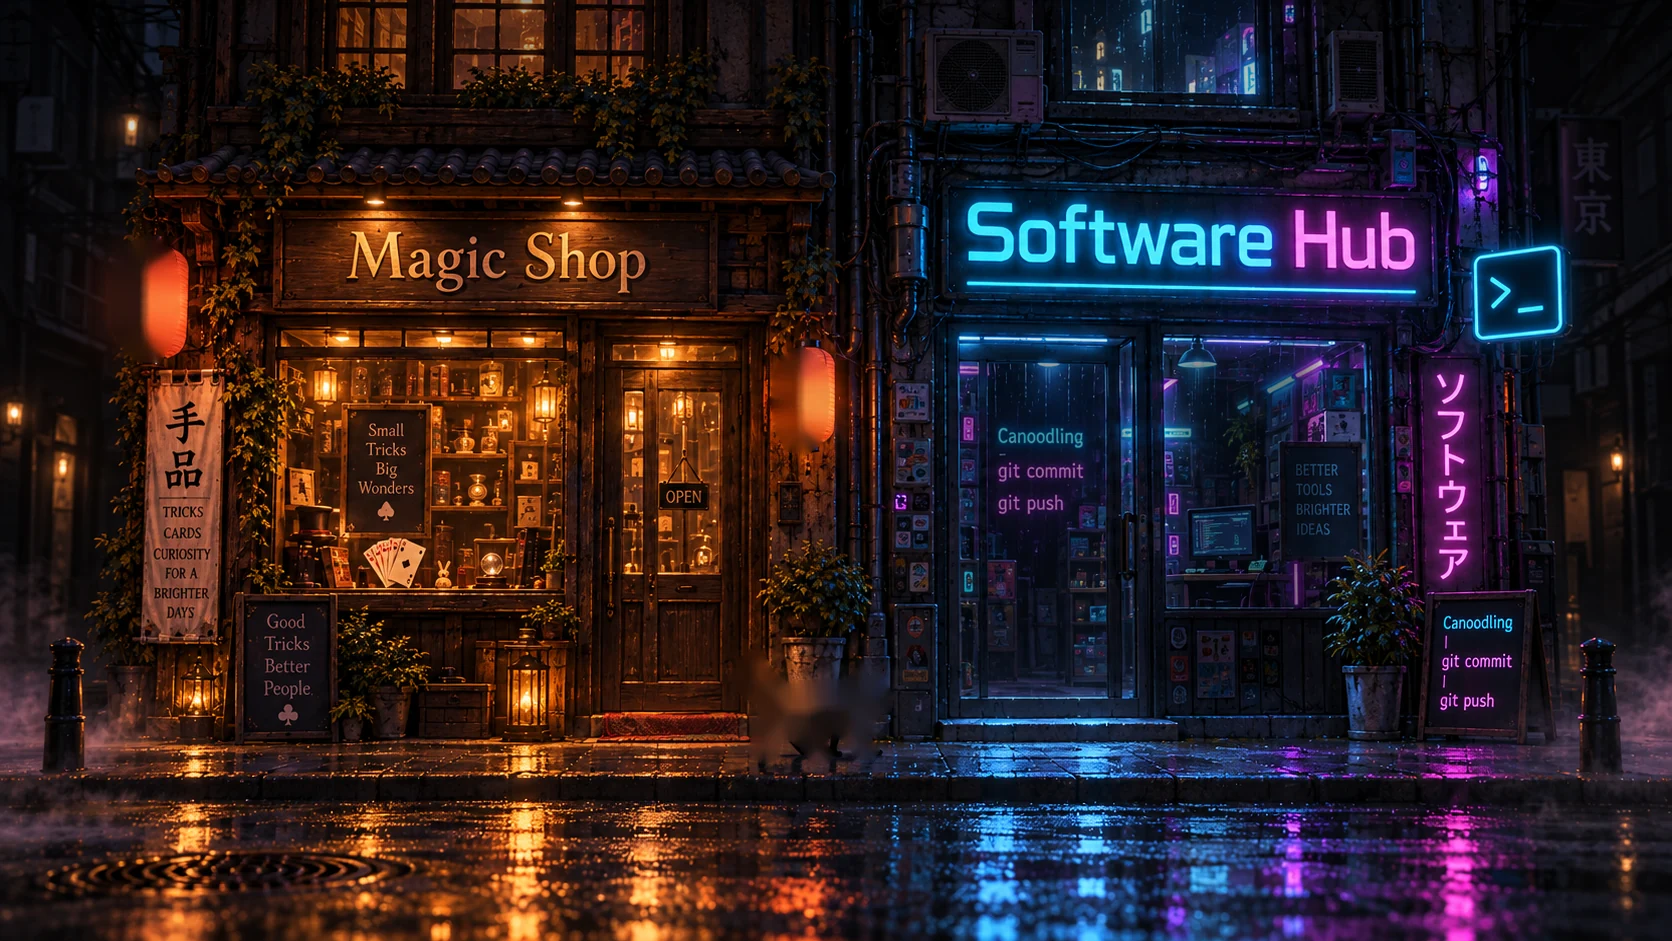
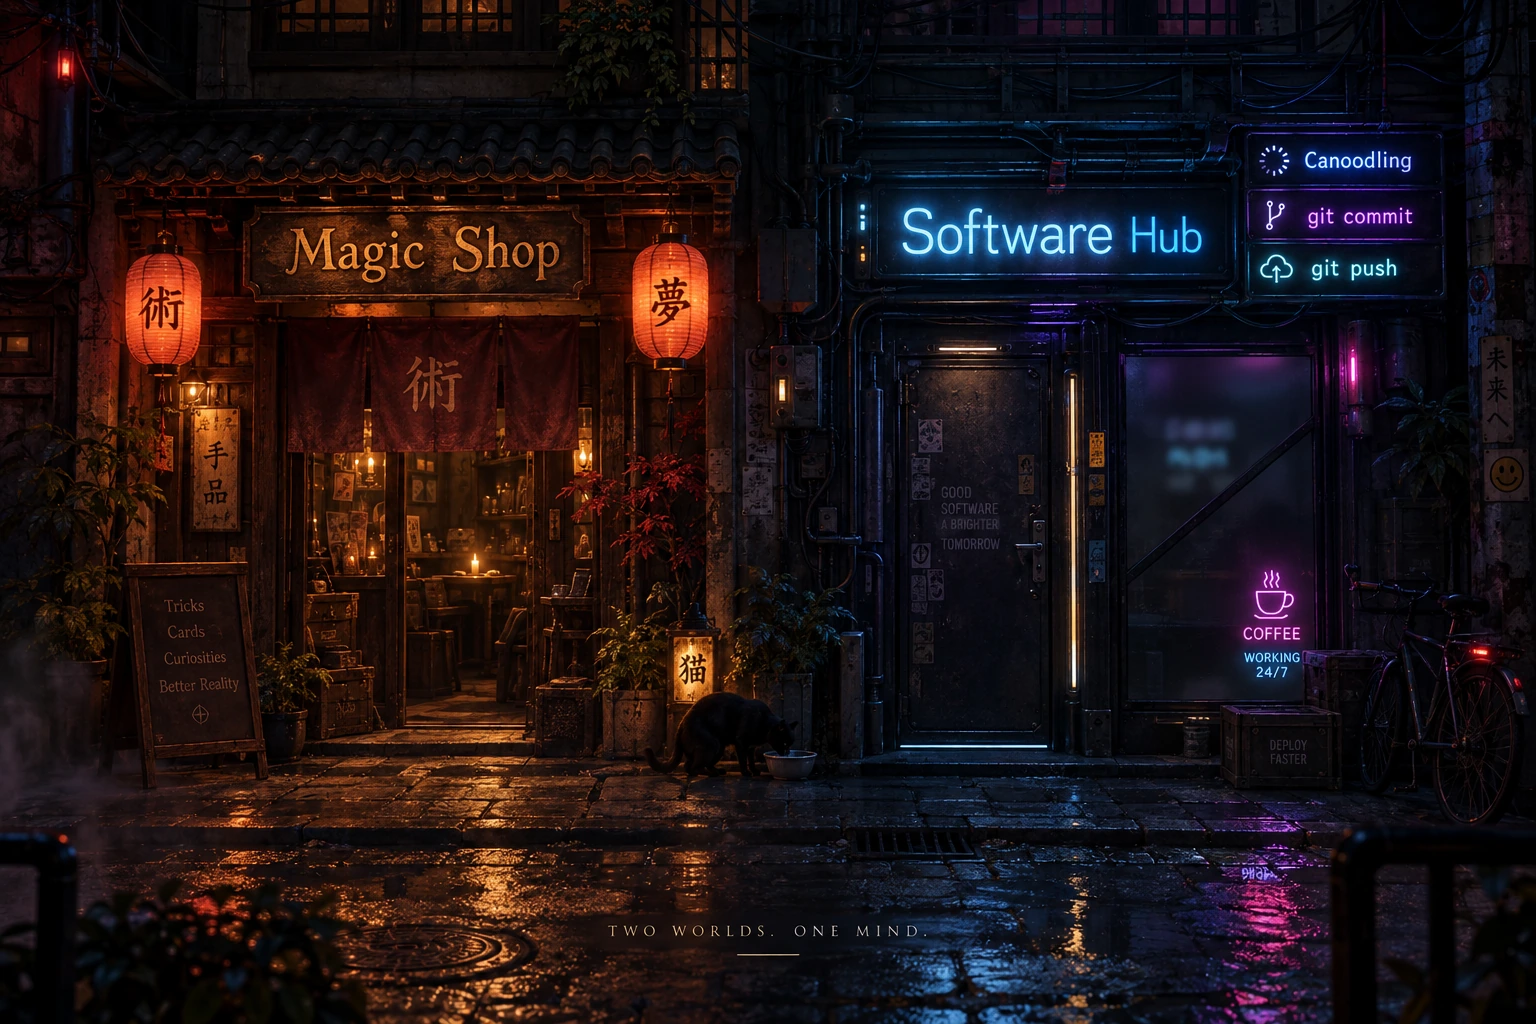
Update gateway to approved alley artwork and subtle door lighting

diff --git a/assets/site.css b/assets/site.css
@@ -190,7 +190,7 @@ body[data-world="gateway"] .page--gateway{height:100svh;min-height:560px;positio
 body[data-world="gateway"] #page-root{height:100svh;overflow:hidden}
 body[data-world="gateway"] #page-gateway{isolation:isolate}
 .street-viewport{position:absolute;inset:0;overflow:hidden;touch-action:pan-y;background:#050811}
-.street-world{position:absolute;top:50%;left:50%;width:max(100vw,177.6833svh);aspect-ratio:1672 / 941;--pan-x:0px;transform:translate(calc(-50% + var(--pan-x)),-50%) scale(1);transform-origin:50% 55%;transition:transform 1.1s cubic-bezier(.18,.75,.16,1),filter .8s;will-change:transform;user-select:none;isolation:isolate}
+.street-world{position:absolute;top:50%;left:50%;width:max(100vw,150svh);aspect-ratio:1536 / 1024;--pan-x:0px;transform:translate(calc(-50% + var(--pan-x)),-50%) scale(1);transform-origin:50% 55%;transition:transform 1.1s cubic-bezier(.18,.75,.16,1),filter .8s;will-change:transform;user-select:none;isolation:isolate}
 .street-background{position:absolute;inset:0;width:100%;height:100%;display:block;pointer-events:none;object-fit:fill}
 .street-vignette{position:absolute;inset:0;pointer-events:none;background:radial-gradient(ellipse 70% 65% at 51% 50%,transparent 44%,rgba(1,2,8,.39) 100%),linear-gradient(to bottom,rgba(2,4,12,.16),transparent 32%,transparent 70%,rgba(2,3,8,.13));z-index:2}
 .street-mist{position:absolute;pointer-events:none;bottom:4%;height:20%;width:47%;z-index:9;filter:blur(24px);opacity:.25;mix-blend-mode:screen;animation:streetMistDrift 21s ease-in-out infinite alternate}
@@ -199,21 +199,21 @@ body[data-world="gateway"] #page-gateway{isolation:isolate}
 @keyframes streetMistDrift{from{transform:translateX(-7%) translateY(6px);opacity:.12}to{transform:translateX(9%) translateY(-5px);opacity:.33}}
 .light-source{position:absolute;pointer-events:none;border-radius:50%;mix-blend-mode:screen;z-index:5;opacity:var(--flicker,.53);filter:blur(12px);will-change:opacity}
 .light-source--magic-window{left:16%;top:36%;width:24%;height:29%;background:radial-gradient(ellipse,rgba(255,166,58,.33),rgba(255,112,27,.10) 38%,transparent 72%)}
-.light-source--magic-door{left:35%;top:35%;width:10%;height:26%;background:radial-gradient(ellipse,rgba(255,194,111,.35),rgba(255,127,40,.07) 50%,transparent 76%)}
+.light-source--magic-door{left:22.2%;top:42.1%;width:13.6%;height:29.5%;background:radial-gradient(ellipse at 50% 45%,rgba(255,194,111,.34),rgba(255,145,52,.13) 42%,rgba(255,122,35,.05) 62%,transparent 78%)}
 .light-source--candle-low{left:29%;top:67%;width:9%;height:14%;background:radial-gradient(circle,rgba(255,174,55,.48),transparent 72%)}
 .light-source--neon-cyan{left:56%;top:20%;width:31%;height:18%;background:radial-gradient(ellipse,rgba(12,188,246,.28),transparent 66%)}
 .light-source--neon-pink{left:78%;top:28%;width:15%;height:38%;background:radial-gradient(ellipse,rgba(255,35,211,.19),transparent 72%)}
 .light-source--pavement{left:51%;bottom:4%;width:34%;height:16%;background:radial-gradient(ellipse,rgba(7,143,247,.18),transparent 70%);filter:blur(19px)}
 .lantern{position:absolute;z-index:12;pointer-events:auto;transform-origin:50% 2%;will-change:transform;transition:filter .4s ease}
 .lantern img{height:100%;width:100%;object-fit:contain;display:block;pointer-events:none;filter:drop-shadow(0 0 6px rgba(255,116,45,.25))}
-.lantern--left{left:5.85%;top:23.3%;width:5.7%;height:15.6%}
-.lantern--right{left:45.45%;top:35.15%;width:5%;height:13.8%}
+.lantern--left{left:7.9%;top:23.7%;width:5.8%;height:13.4%}
+.lantern--right{left:41.3%;top:23.7%;width:5.5%;height:13.4%}
 .lantern:hover{filter:brightness(1.23) drop-shadow(0 0 11px rgba(255,128,55,.43))}
-.coffee-neon{position:absolute;left:73.6%;top:61.0%;z-index:15;width:6.8%;height:11%;pointer-events:none;color:#ff6add;display:flex;flex-direction:column;justify-content:center;align-items:center;gap:1%;font:500 clamp(5px,.65vw,12px)/1.1 var(--display);letter-spacing:.12em;text-shadow:0 0 6px #f526c1,0 0 13px rgba(255,48,208,.85),0 0 28px #a90075;opacity:.86;transform:rotate(-1deg);animation:neonTube 17s infinite}
+.coffee-neon{display:none!important;position:absolute;left:73.6%;top:61.0%;z-index:15;width:6.8%;height:11%;pointer-events:none;color:#ff6add;display:flex;flex-direction:column;justify-content:center;align-items:center;gap:1%;font:500 clamp(5px,.65vw,12px)/1.1 var(--display);letter-spacing:.12em;text-shadow:0 0 6px #f526c1,0 0 13px rgba(255,48,208,.85),0 0 28px #a90075;opacity:.86;transform:rotate(-1deg);animation:neonTube 17s infinite}
 .coffee-icon{font:400 clamp(13px,2.3vw,30px)/1 var(--sans);color:#fbc3ef}
 .coffee-word{font-size:1.05em}.coffee-neon small{color:#9aeaff;text-shadow:0 0 7px #32bcfa;font:600 .80em/1.15 var(--display);letter-spacing:.08em;text-align:center}
 @keyframes neonTube{0%,3%,13%,25%,48%,100%{opacity:.95}4%{opacity:.35}4.5%{opacity:1}49%{opacity:.4}49.4%{opacity:.92}}
-.cat-bowl{position:absolute;z-index:15;left:50.2%;top:78.3%;width:3.6%;height:1.9%;border-radius:5% 5% 50% 50%;background:linear-gradient(#9d99a0,#41404b 48%,#151d2d);box-shadow:0 4px 8px #02030b99,0 0 5px rgba(203,194,173,.15);transform:skewX(-10deg)}
+.cat-bowl{position:absolute;z-index:15;left:51.2%;top:74.0%;width:3.6%;height:1.9%;border-radius:5% 5% 50% 50%;background:linear-gradient(#9d99a0,#41404b 48%,#151d2d);box-shadow:0 4px 8px #02030b99,0 0 5px rgba(203,194,173,.15);transform:skewX(-10deg)}
 .cat-bowl__liquid{position:absolute;left:4%;top:-21%;height:68%;width:92%;border-radius:50%;background:radial-gradient(ellipse at 50% 40%,#bac7c9 4%,#647980 38%,#191e29 80%);border:1px solid rgba(236,230,232,.4);animation:catWater 3s ease-in-out infinite}
 @keyframes catWater{50%{filter:brightness(1.14);transform:scaleX(.96)}}
 .street-cat{position:absolute;z-index:16;left:43.4%;top:68.0%;width:11.08%;height:14.0%;margin:0;border:0;background:transparent;padding:0;cursor:pointer;transform:translate3d(var(--cat-x,0px),var(--cat-y,0px),0) scaleX(var(--cat-direction,1));transform-origin:center 75%;transition:transform 3.2s cubic-bezier(.4,0,.16,1),filter .4s;outline-offset:10px;-webkit-tap-highlight-color:transparent}
@@ -230,14 +230,13 @@ body[data-world="gateway"] #page-gateway{isolation:isolate}
 @keyframes catLick{0%,45%,100%{transform:rotate(0deg)}58%,72%{transform:rotate(-6deg) translateY(5px)}}
 @keyframes catSip{0%,50%,100%{transform:rotate(3deg) translateY(3px)}75%{transform:rotate(5deg) translateY(7px)}}
 @keyframes catSit{50%{transform:scaleY(.91) translateY(7px)}}
-.shop-hit{position:absolute;z-index:20;display:block;border:0;outline-offset:-1px;cursor:pointer;transform:translateZ(0);-webkit-tap-highlight-color:transparent}
-.shop-hit--magic{left:35.0%;top:36%;width:10.4%;height:41%}
-.shop-hit--software{left:55.4%;top:34.8%;width:14.5%;height:41%}
-.shop-hit__outline{position:absolute;inset:0;border:1px solid transparent;border-radius:4px;transition:border .35s,box-shadow .35s,background .35s,transform .35s;pointer-events:none}
-.shop-hit--magic:hover .shop-hit__outline,.shop-hit--magic:focus-visible .shop-hit__outline{border-color:rgba(255,195,110,.73);background:rgba(255,189,93,.055);box-shadow:inset 0 0 28px #f6ac5630,0 0 28px #ffaa5030;transform:scale(1.035)}
-.shop-hit--software:hover .shop-hit__outline,.shop-hit--software:focus-visible .shop-hit__outline{border-color:rgba(70,211,255,.68);background:rgba(20,148,223,.055);box-shadow:inset 0 0 30px #31b4e12d,0 0 28px #22bdf529;transform:scale(1.03)}
-.shop-hit__label{position:absolute;top:83%;left:50%;transform:translate(-50%,0) translateY(10px);opacity:0;transition:opacity .3s,transform .3s;white-space:nowrap;display:inline-flex;align-items:center;gap:8px;padding:11px 15px;border:1px solid #ffffff38;border-radius:6px;background:rgba(6,10,18,.89);backdrop-filter:blur(8px);color:#fff;font:600 clamp(8px,.77vw,13px) var(--display);letter-spacing:.12em;text-transform:uppercase;box-shadow:0 9px 24px #0008}
-.shop-hit:hover .shop-hit__label,.shop-hit:focus-visible .shop-hit__label{opacity:1;transform:translate(-50%,0)}
+.shop-hit{position:absolute;z-index:20;display:block;border:0;outline-offset:6px;cursor:pointer;transform:translateZ(0);-webkit-tap-highlight-color:transparent}
+.shop-hit--magic{left:20.5%;top:37.6%;width:15.7%;height:35.9%}
+.shop-hit--software{left:57.4%;top:34.6%;width:14.3%;height:38.6%}
+.shop-hit__outline{position:absolute;inset:0;border:0;border-radius:10px;opacity:0;transition:opacity .28s ease,filter .28s ease,transform .28s ease;background:transparent;pointer-events:none}
+.shop-hit--magic:hover .shop-hit__outline,.shop-hit--magic:focus-visible .shop-hit__outline{opacity:1;filter:blur(8px);transform:scale(1.02);background:radial-gradient(ellipse at 50% 35%,rgba(255,198,112,.28),rgba(255,169,79,.12) 42%,rgba(255,122,35,.04) 68%,transparent 84%)}
+.shop-hit--software:hover .shop-hit__outline,.shop-hit--software:focus-visible .shop-hit__outline{opacity:1;filter:blur(7px);transform:scale(1.02);background:radial-gradient(ellipse at 50% 30%,rgba(76,210,255,.16),rgba(44,159,231,.08) 46%,rgba(14,68,116,.05) 68%,transparent 84%)}
+.shop-hit__label{display:none}
 .street-weather{position:absolute;inset:0;width:100%;height:100%;z-index:17;pointer-events:none;mix-blend-mode:screen;opacity:.55}
 .street-hud{position:absolute;z-index:21;left:clamp(22px,4.3vw,70px);right:clamp(22px,4.3vw,70px);bottom:88px;display:flex;justify-content:space-between;gap:25px;font:500 10px var(--display);letter-spacing:.24em;color:rgba(238,233,247,.65);text-shadow:0 2px 9px #000}
 .street-bottom-nav{position:absolute;z-index:22;bottom:21px;left:50%;transform:translateX(-50%);display:flex;gap:4px;padding:5px;border:1px solid rgba(235,228,246,.23);border-radius:40px;background:rgba(7,10,18,.76);backdrop-filter:blur(12px);box-shadow:0 6px 30px #0005}
@@ -259,7 +258,7 @@ body[data-world="gateway"] #page-gateway{isolation:isolate}
  body[data-world="gateway"] .brand__name{display:block;font-size:10px;letter-spacing:1.7px}
  body[data-world="gateway"] .header-contact{display:none}
  body[data-world="gateway"] .page--gateway{min-height:0;height:100svh}
- .street-world{width:max(100vw,177.6833svh);transition-duration:.65s}
+ .street-world{width:max(100vw,150svh);transition-duration:.65s}
  .street-hud{left:14px;right:14px;bottom:107px;font-size:8px;letter-spacing:.08em}
  .street-hud span:last-child{display:none}
  .street-hint{top:66px;font-size:8px;letter-spacing:.12em}
